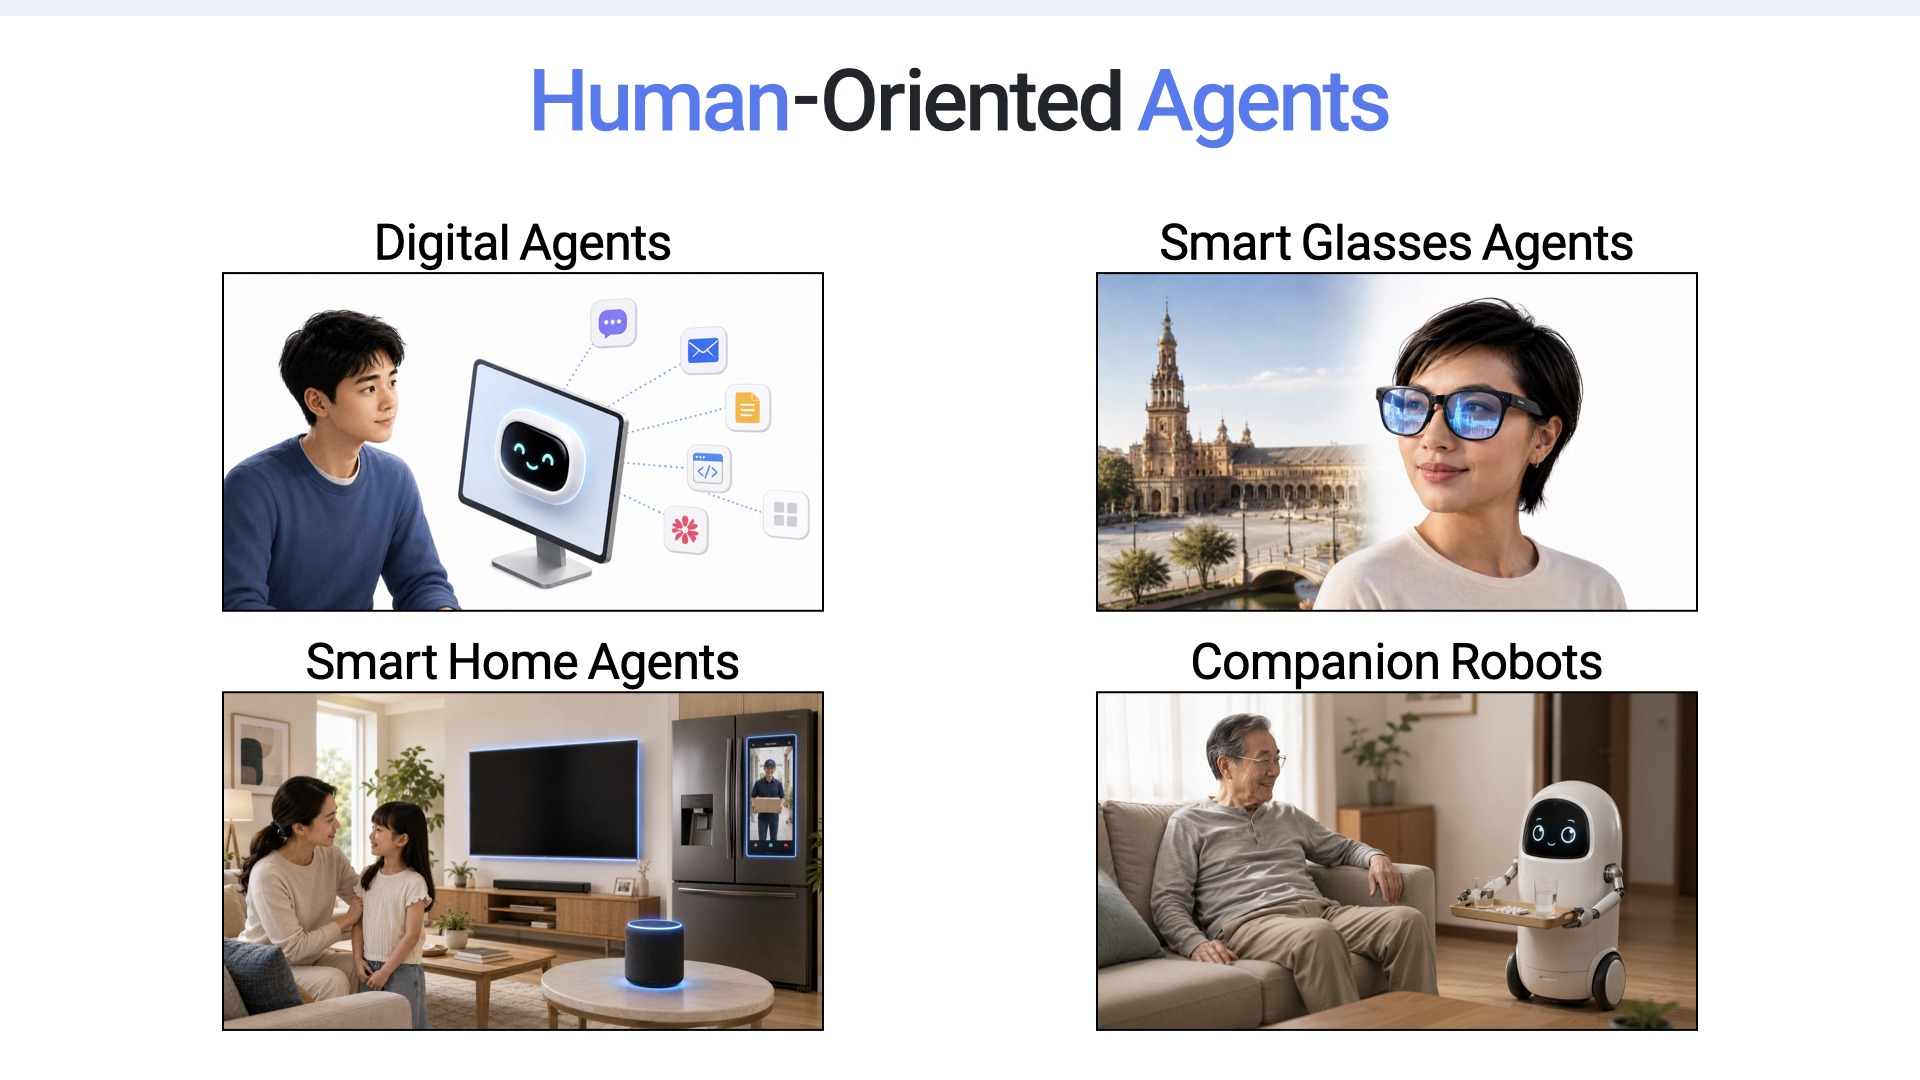
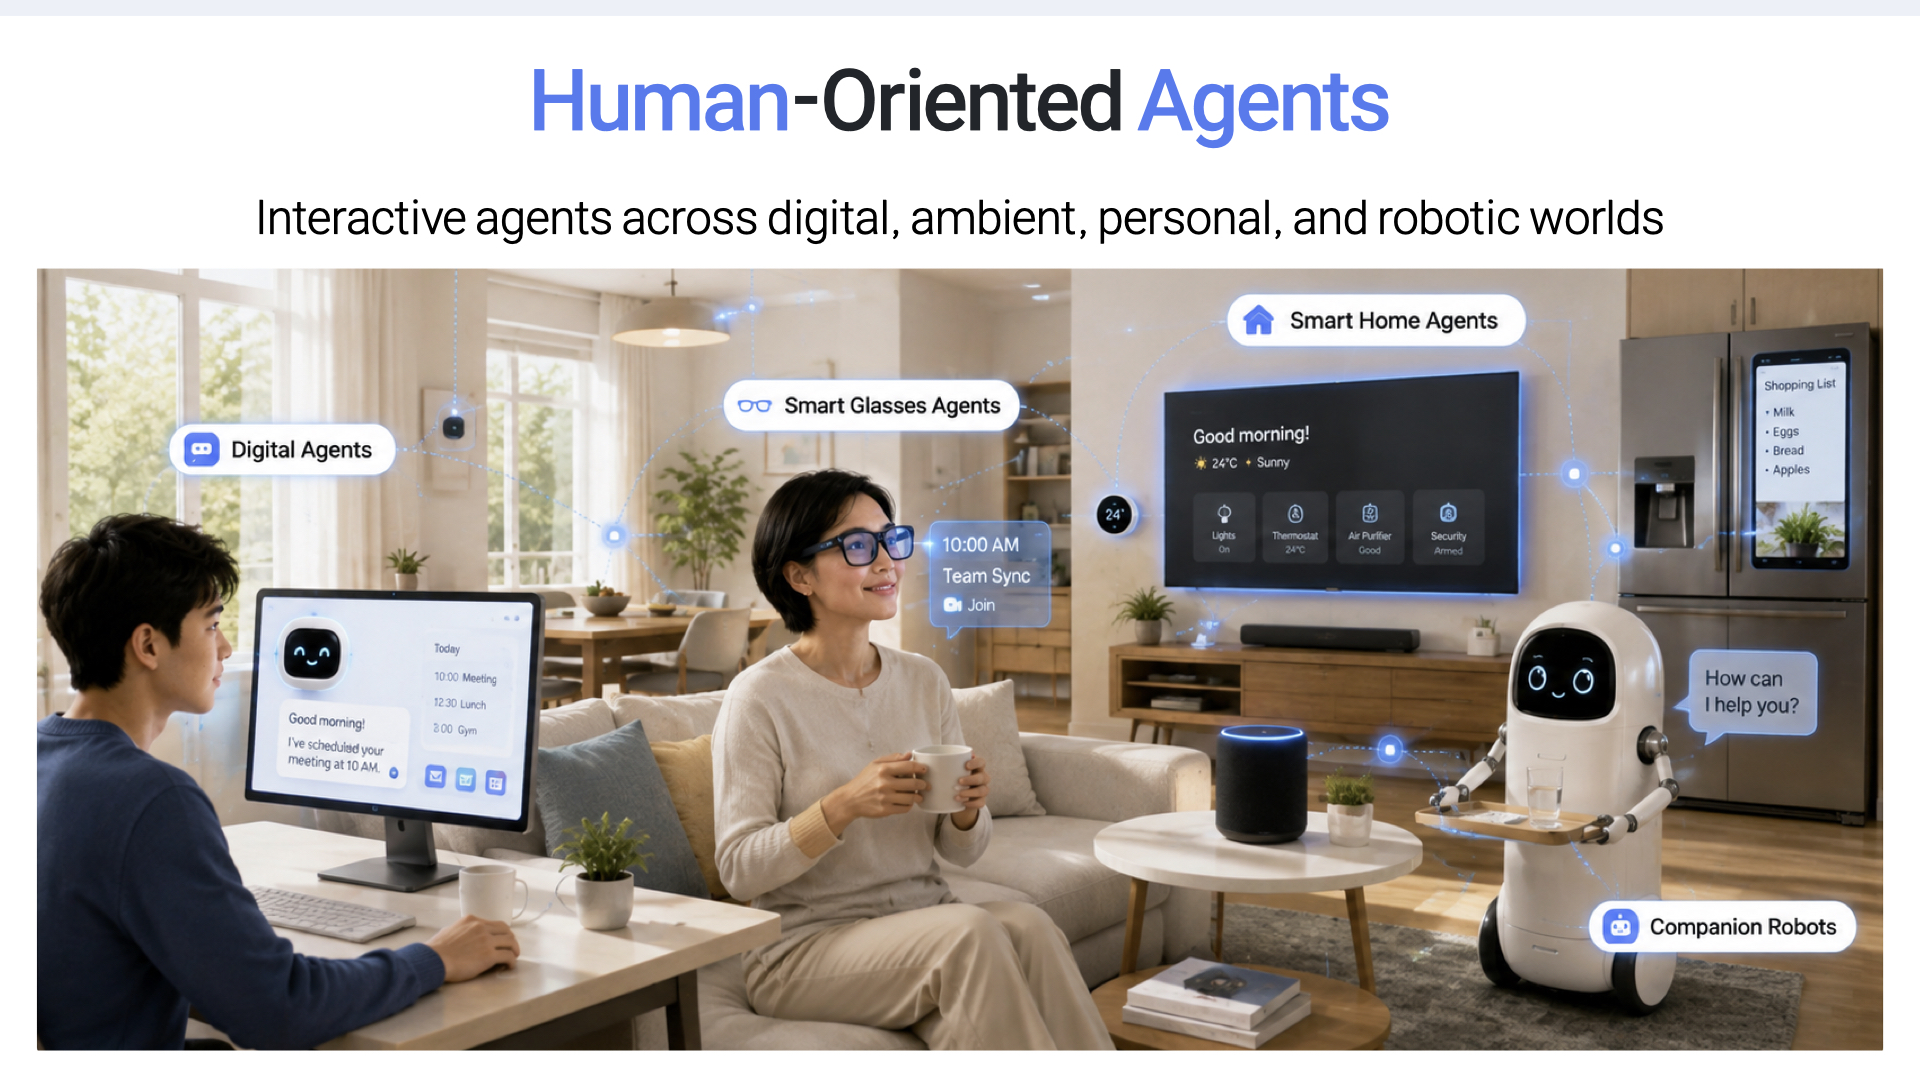
Update research topics

diff --git a/index.html b/index.html
@@ -147,22 +147,17 @@
                         <div class="slides">
                             <div class="slide">
                                 <div class="slide-inner">
-                                    <img src="images/lab/Slides.001.jpeg" alt="Human-oriented AI agents across digital platforms, smart glasses, smart homes, and companion robots." />
+                                    <img src="images/lab/Slides.001.jpeg" alt="Human-oriented and interactive AI agents across digital, ambient, personal, and robotic worlds through digital agents, smart homes, smart glasses, and companion robots." />
                                 </div>
                             </div>
                             <div class="slide">
                                 <div class="slide-inner">
-                                    <img src="images/lab/Slides.002.jpeg" alt="HOLI Lab’s technological pillars: value alignment for social intelligence, reasoning for logical intelligence, and interpretability for AI safety and control." />
+                                    <img src="images/lab/Slides.002.jpeg" alt="HOLI Lab’s research topics: value alignment for social intelligence, reasoning for logical intelligence, and interpretability for AI safety and control. Research at Yohan Jo's Lab spans value alignment, user memory and personalization, reasoning for world foundation models and omni-models, interpretability, AI safety, and parametric knowledge editing." />
                                 </div>
                             </div>
                             <div class="slide">
                                 <div class="slide-inner">
-                                    <img src="images/lab/Slides.003.jpeg" alt="Research at Yohan Jo Lab spans value alignment, user memory and personalization, reasoning for world foundation models and omni-models, interpretability, AI safety, and parametric knowledge editing." />
-                                </div>
-                            </div>
-                            <div class="slide">
-                                <div class="slide-inner">
-                                    <img src="images/lab/Slides.004.jpeg" alt="HOLI Lab, the Human-Oriented Language Intelligence Lab led by Yohan Jo at Seoul National University’s Graduate School of Data Science." />
+                                    <img src="images/lab/Slides.003.jpeg" alt="HOLI Lab, the Human-Oriented Language Intelligence Lab led by Yohan Jo at Seoul National University’s Graduate School of Data Science." />
                                 </div>
                             </div>
                         </div>

diff --git a/style.css b/style.css
@@ -570,7 +570,7 @@ p.bigskip {
     height: 50px;
     background-color: rgba(0, 0, 0, 0.5);
     color: white;
-    border: none;
+    border: 2px solid white;
     cursor: pointer;
     border-radius: 50%;
     display: flex;
